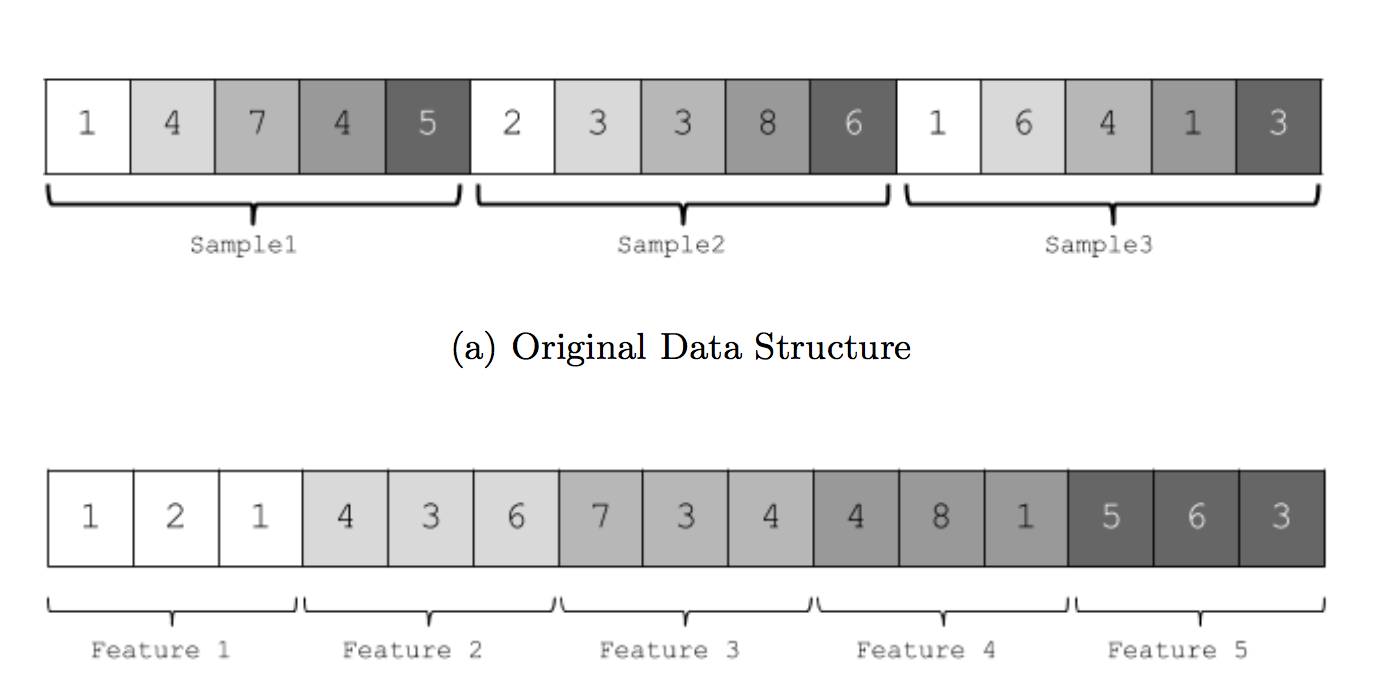
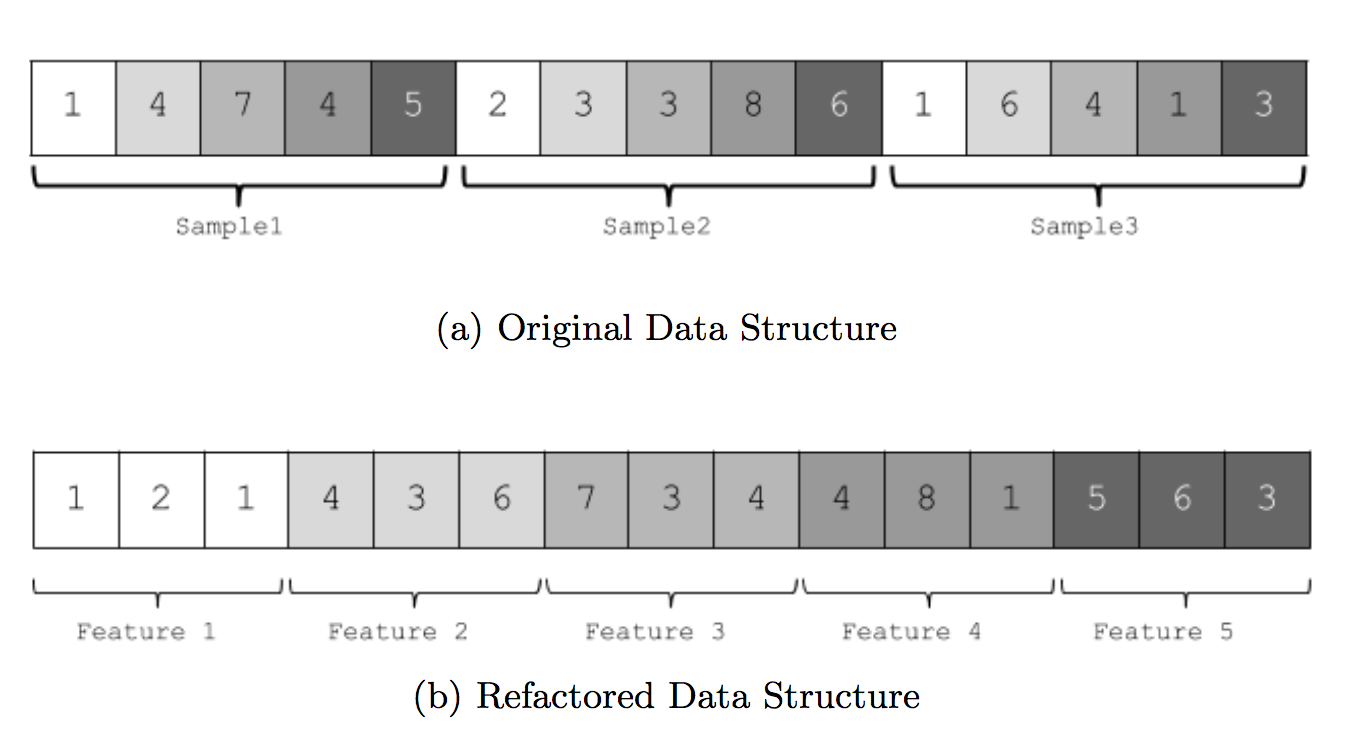
Add image

diff --git a/README.md b/README.md
@@ -22,3 +22,5 @@ Data is received in a sample-wise manner as it is shown in the next figure. Afte
 Thus, the manner in which data is stored in memory is altered to allow access to all the values of a feature in 
 a block-wise memory operation. 
 
+
+![.mrmr data structure](/image.png)
